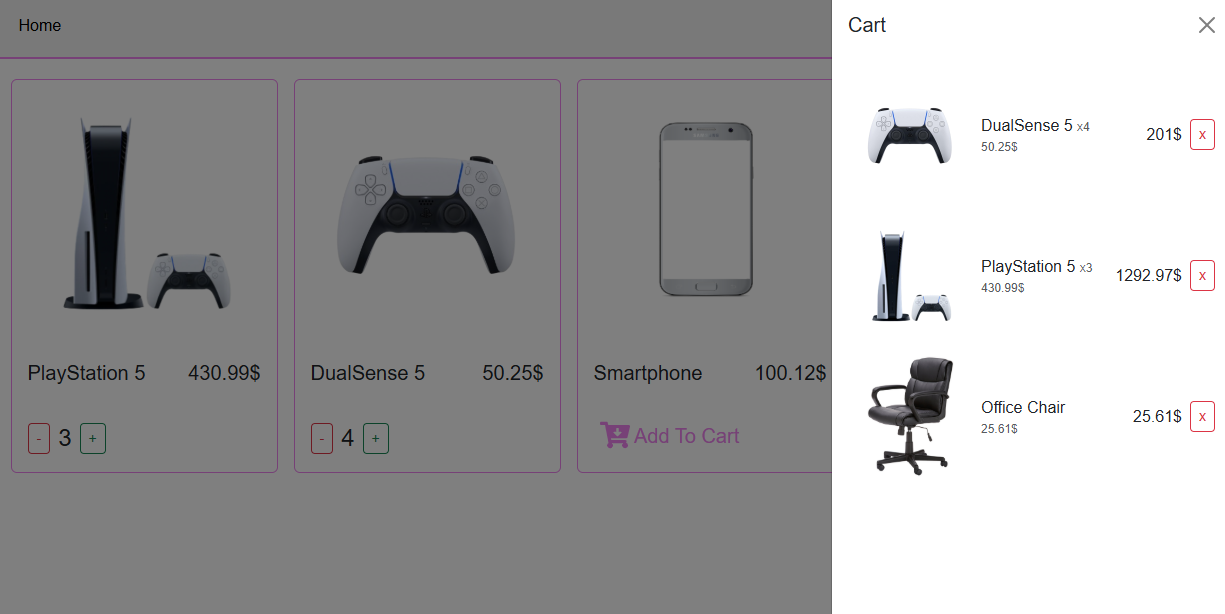
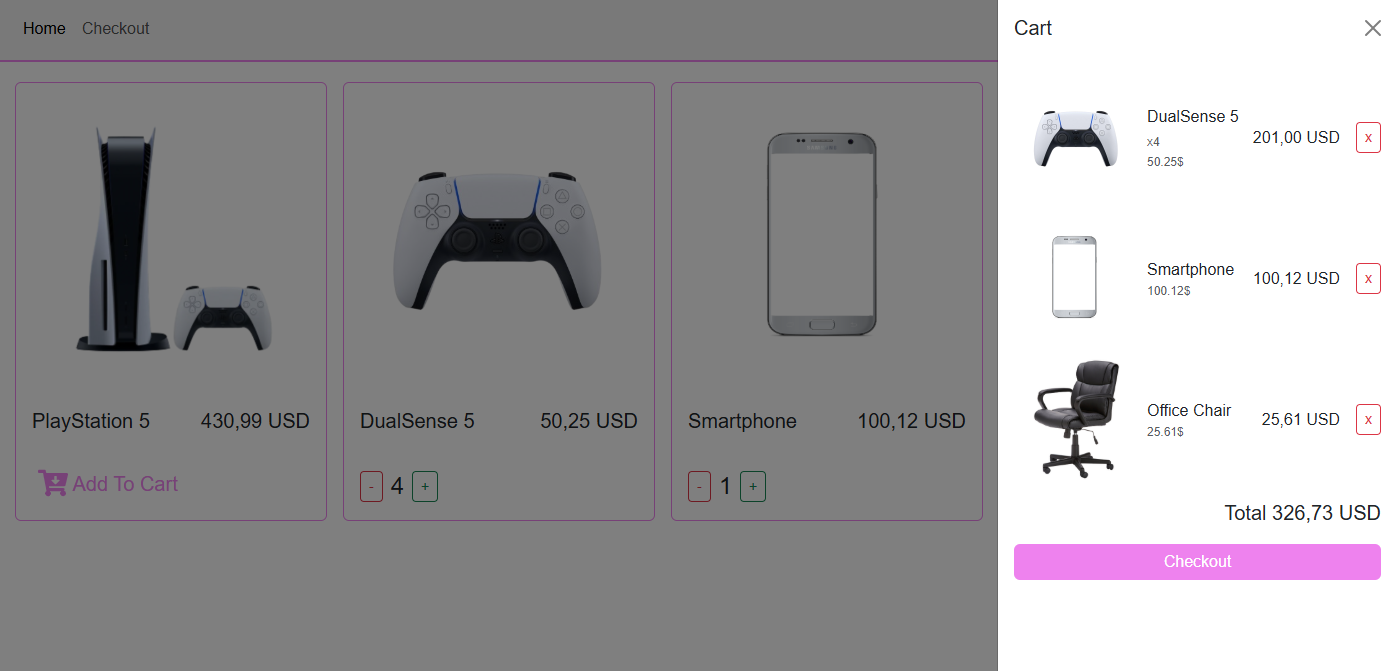
Update README

diff --git a/README.md b/README.md
@@ -1,12 +1,14 @@
 # ECommerce - Frontend
 ## React + Typescript
-### WORK IN PROGRESS
-
 ### This is my implemetation of frontend part for my E-Commerce solution. Using React + TypeScript and Bootstrap, I have developed a graphical user interface for my e-commerce solution, displaying available products. All visible elements on the page are JSX components, written in React with precise type definitions using TypeScript.
 ![Reference Image](/README_photos/main_view.PNG)
 ### The website is fully responsive and dynamically adapts to the user's browser window size. Users can add products to the cart while specifying the quantity. After adding an item, an alert is displayed with relevant information.
 ![Reference Image](/README_photos/to_cart.PNG)
 ### To access the cart view, users can click the icon in the upper-right corner to see its contents.
 ![Reference Image](/README_photos/cart_view.PNG)
-### The application utilizes local storage, ensuring that products added to the cart remain there even after refreshing the page.
-### The project is currently under active development, and all updates will be implemented continuously.
+### The application utilizes local storage, ensuring that products added to the cart remain there even after refreshing the page. After clicking the *Checkout* button, the user will be redirected to the checkout view page.
+![Reference Image](/README_photos/checkout_view.PNG)
+### All user input fields are validated to ensure that the required information is provided. After that, by pressing the *Proceed* button, an alert message will be displayed, and the client will send a request to the API to store the information in the database.
+![Reference Image](/README_photos/submit.PNG)
+### Afterward, the user will be redirected to the main page, local storage will be cleared, and the data will be saved in the database.
+![Reference Image](/README_photos/database.PNG)
